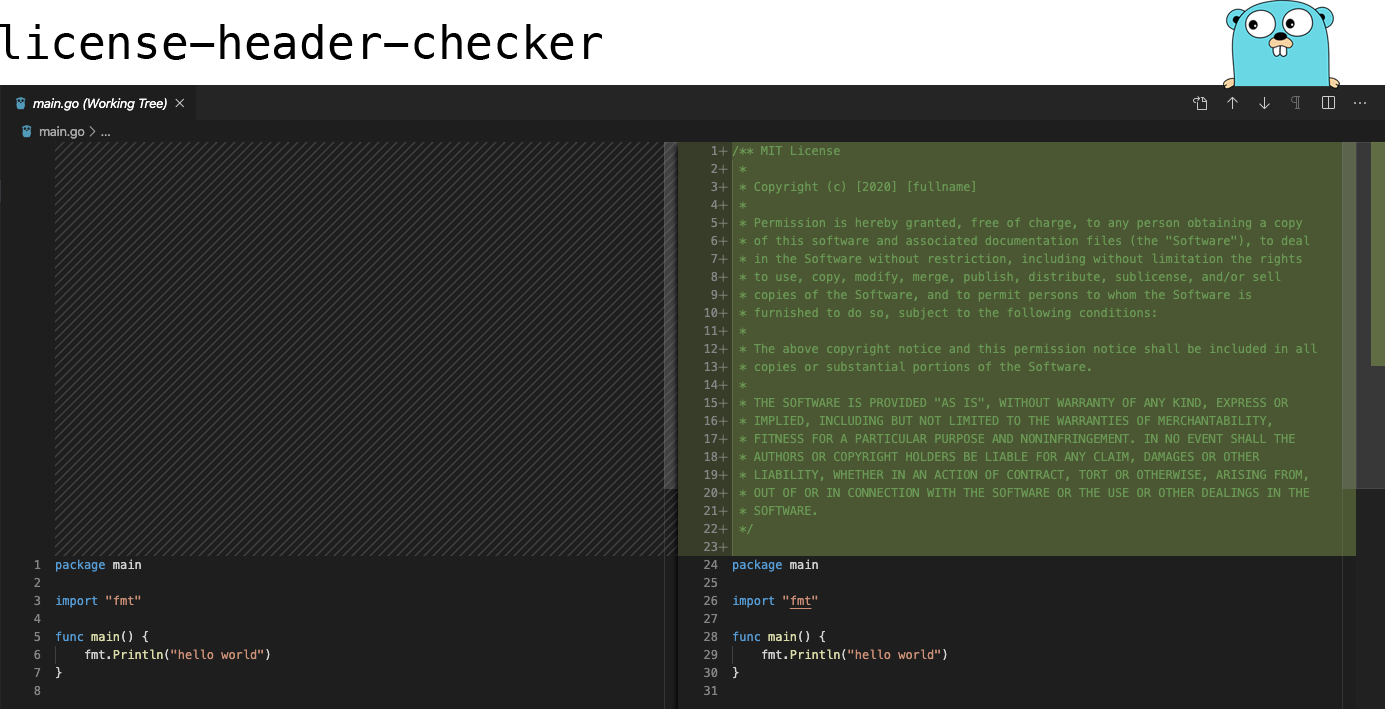
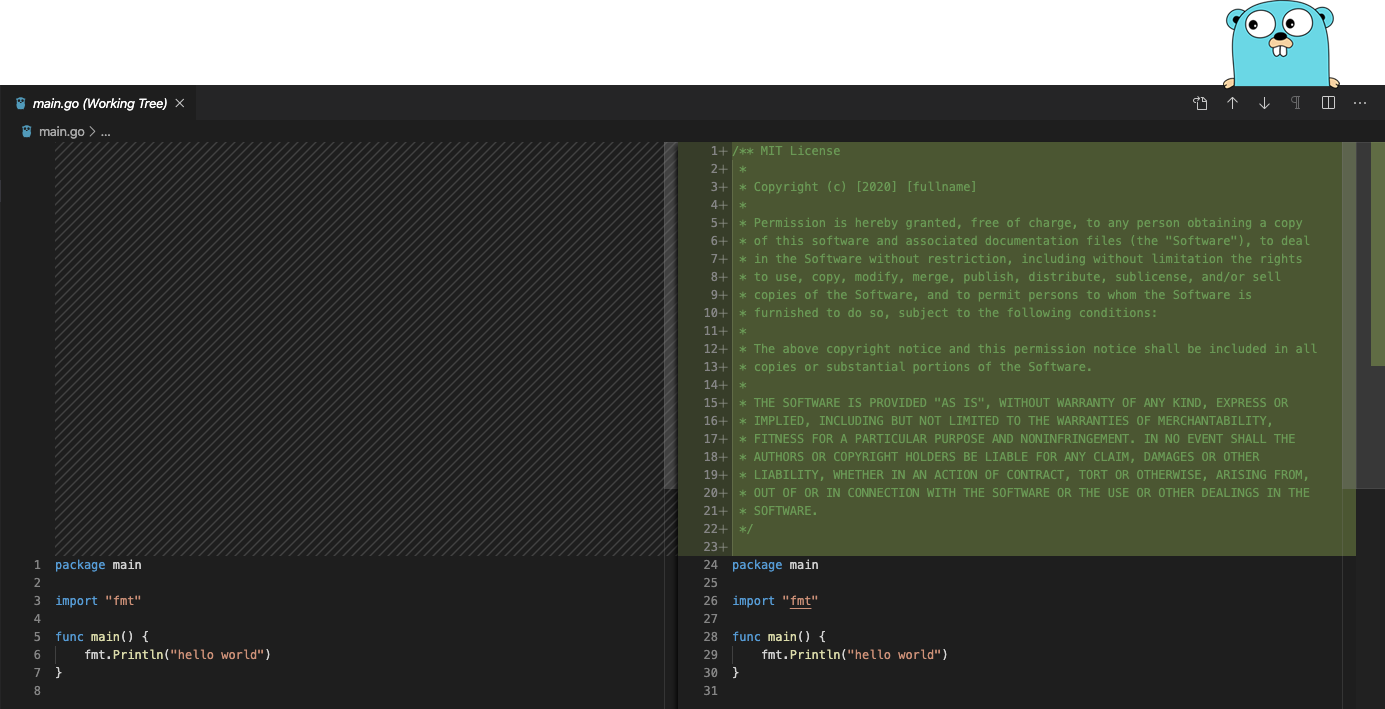
docs: improve readme (#39)

Changed region(s): [[0.0, 0.031, 0.4347, 0.0931]]

diff --git a/README.md b/README.md
@@ -1,12 +1,14 @@
 ![Header](images/header.png)
 
+# license-header-checker
+
 ![Build Status](https://github.com/lluissm/license-header-checker/workflows/Build/badge.svg) ![Test Status](https://github.com/lluissm/license-header-checker/workflows/Test/badge.svg)
 
 Multiplatform command line tool that **checks** whether the **license headers** are included in the **source files** of a project.
 
 - It can **insert the license** to a file in case it does not exist (optional).
 - It can **replace the license** of a file in case it is different than the target (optional).
-- It is possible to **choose the file extensions that will be processed**.
+- **Only selected file extensions** will be **processed**.
 - Specific **folders, files and paths can be ignored**.
 
 _DISCLAIMER_
@@ -15,15 +17,15 @@ The tool expects the software license to be in a **block comment at the beginnin
 
 Thus, while it does support the source files of languages like _Go, Rust, JavaScript, TypeScript, C, C++, Java, Swift, Kotlin and C#_, it does not support the file extensions that do not use this style.
 
-# Command Usage
+## Command Usage
 
-## Syntax
+### Syntax
 
 ```bash
 $ license-header-checker [-a] [-r] [-v] [-i path1,...] license-header-path src-path extensions...
 ```
 
-## Options
+### Options
 
 ```
   -a        Add the target license in case the file does not have any.
@@ -34,15 +36,15 @@ $ license-header-checker [-a] [-r] [-v] [-i path1,...] license-header-path src-p
   -version  Display version number.
 ```
 
-## Example
+### Example
 
 ```bash
 $ license-header-checker -v -a -r -i node_modules,client/assets ../license_header.txt . js ts
 ```
 
-# Using in CI
+## Usage in CI
 
-## GitHub Action example
+### GitHub Action example
 
 ```yml
 name: License Check
@@ -59,9 +61,9 @@ jobs:
         run: license-header-checker -a -r ./license_header.txt . go && [[ -z `git status -s` ]]
 ```
 
-# Installation
+## How to install
 
-## Install script
+### Install script
 
 For linux and MacOS systems you can use the install script.
 
@@ -77,11 +79,11 @@ To install a specific version (e.g., v.1.3.0):
 $ curl -s https://raw.githubusercontent.com/lluissm/license-header-checker/master/install.sh | bash -s v1.3.0
 ```
 
-## Binary packages
+### Binary packages
 
 The binary packages for Linux, Windows and macOS are uploaded for each release and can be downloaded from the [releases](https://github.com/lluissm/license-header-checker/releases) page.
 
-## Installing from source
+### Building from source
 
 Provided you have Go and make installed, just type:
 
